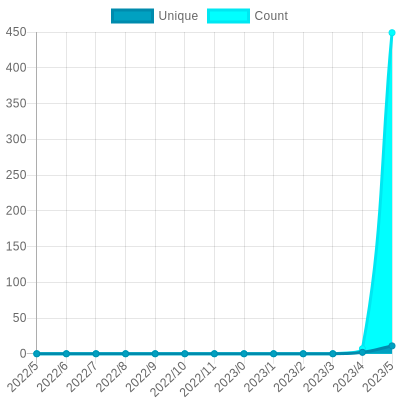
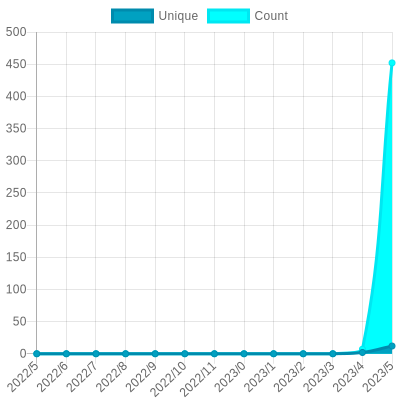
Update views

diff --git a/readme/497960298/year.md b/readme/497960298/year.md
@@ -23,10 +23,10 @@
 			<code>2022/6/1</code>
 		</td>
 		<td>
-			<code>11</code>
+			<code>12</code>
 		</td>
 		<td>
-			<code>449</code>
+			<code>452</code>
 		</td>
 	</tr>
 	<tr>
@@ -164,7 +164,7 @@
 </table>
 
 </details>
-<small><i>Last updated on 2022/6/15 3:51 AM UTC</i></small>
+<small><i>Last updated on 2022/6/15 6:46 AM UTC</i></small>
 
 ## ✂Copy and 📋 Paste
 ### SVG Badge

diff --git a/README.md b/README.md
@@ -37,7 +37,7 @@ The project created and maintained by [gayanvoice](https://github.com/gayanvoice
 	</tr>
 </table>
 
-<small><i>Last updated on 2022/6/15 3:51 AM UTC</i></small>
+<small><i>Last updated on 2022/6/15 6:47 AM UTC</i></small>
 
 ## ✂Copy and 📋 Paste
 ### Total Views Badge
